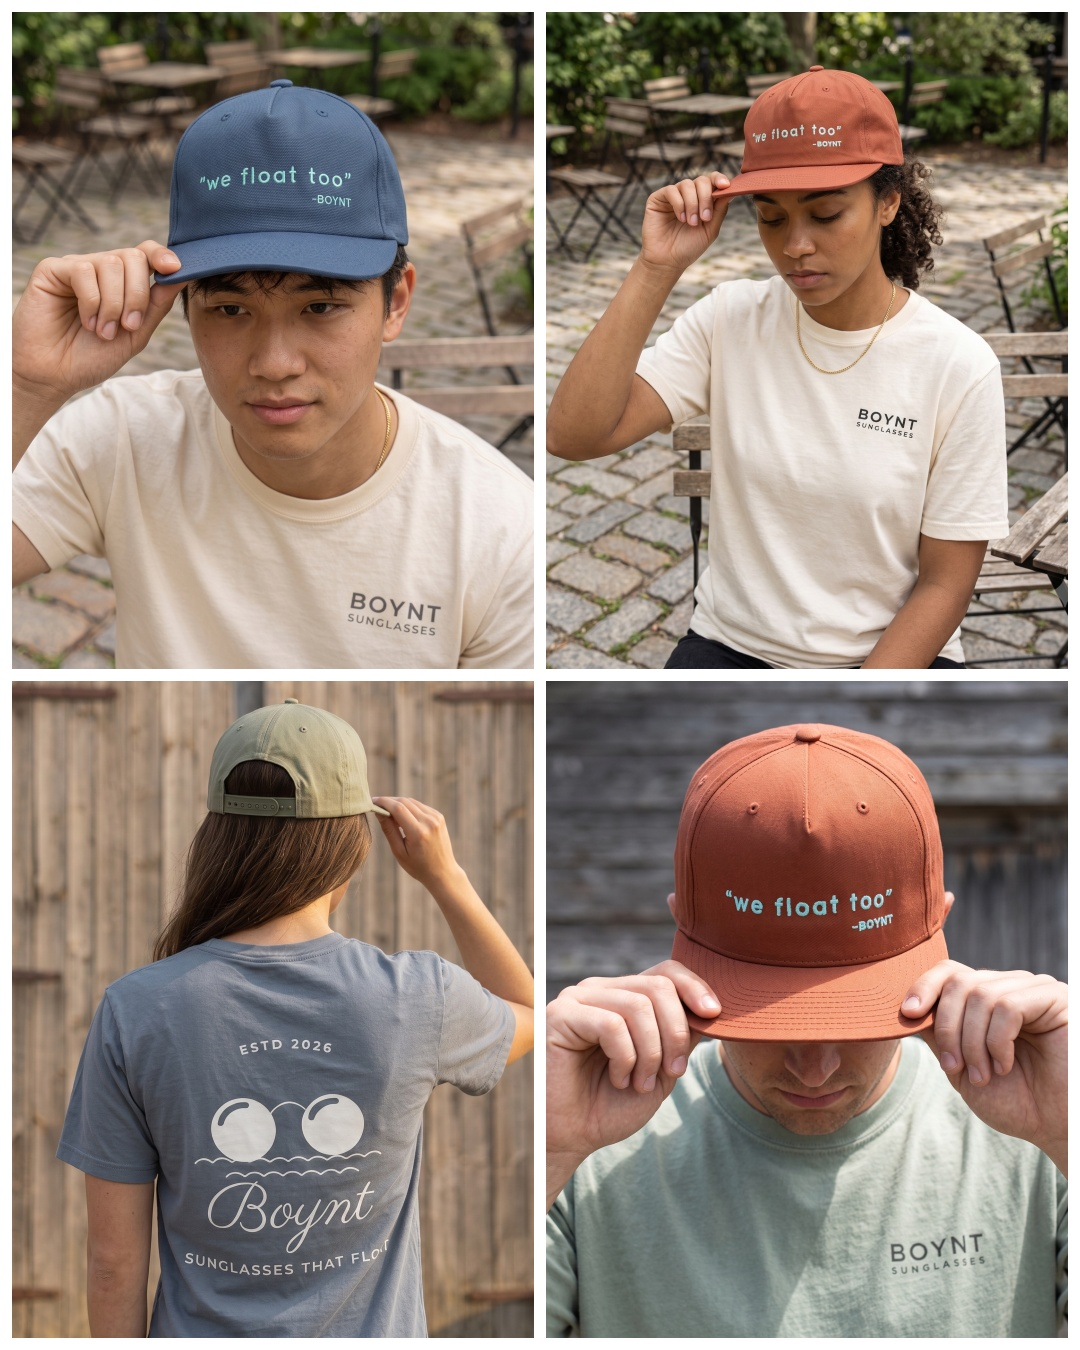
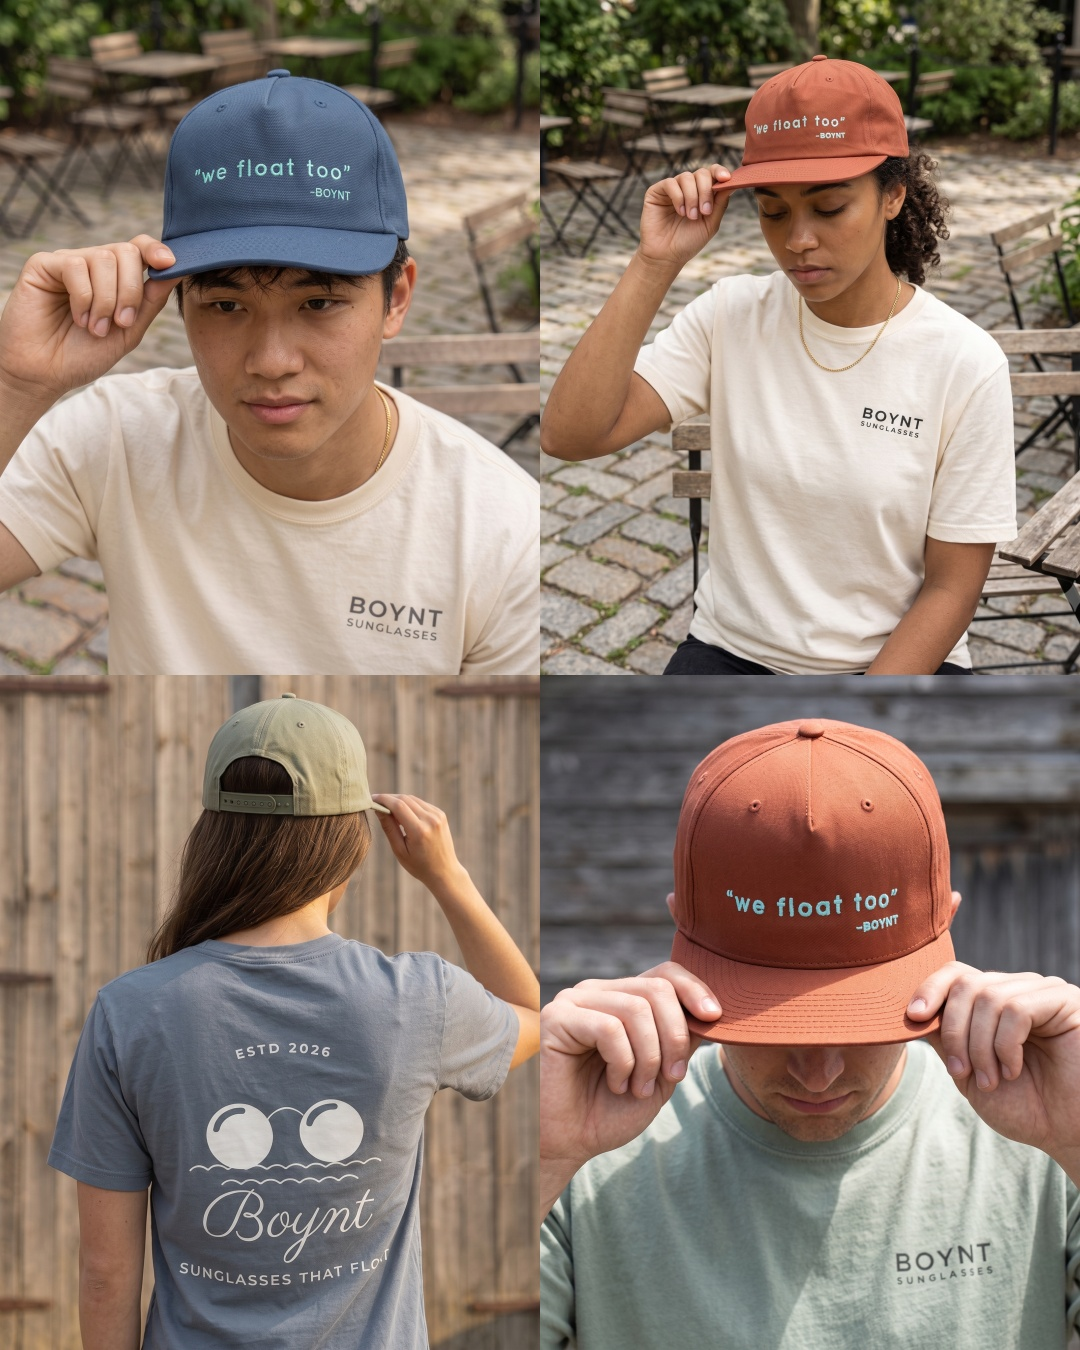
Build collage edge to edge with no gutters
Drops the white separators between cells. At gutter and margin 0 the cells
divide evenly into 540x675, so each photo keeps an exact 4:5 crop.

Claude-Session: https://claude.ai/code/session_01153ty6bc2K4o1Vj71FFMii

diff --git a/tools/photo_collage.py b/tools/photo_collage.py
@@ -149,8 +149,10 @@ def main(argv: list[str]) -> int:
     g.add_argument("-o", "--out", default="assets/collage/boynt-collage.jpg")
     g.add_argument("--width", type=int, default=1080)
     g.add_argument("--height", type=int, default=1350)  # 4:5 portrait IG post
-    g.add_argument("--gutter", type=int, default=12)
-    g.add_argument("--margin", type=int, default=12)
+    # Edge to edge by default: at 0/0 the cells land on an exact 540x675, so
+    # each photo keeps a true 4:5 crop with no seam between them.
+    g.add_argument("--gutter", type=int, default=0)
+    g.add_argument("--margin", type=int, default=0)
     g.add_argument("--bg", default="255,255,255", help="B,G,R background colour")
     g.add_argument("--xanchors", default="0.5,0.45,0.5,0.5")
     g.add_argument("--yanchors", default="0.5,0.5,0.5,0.5")
